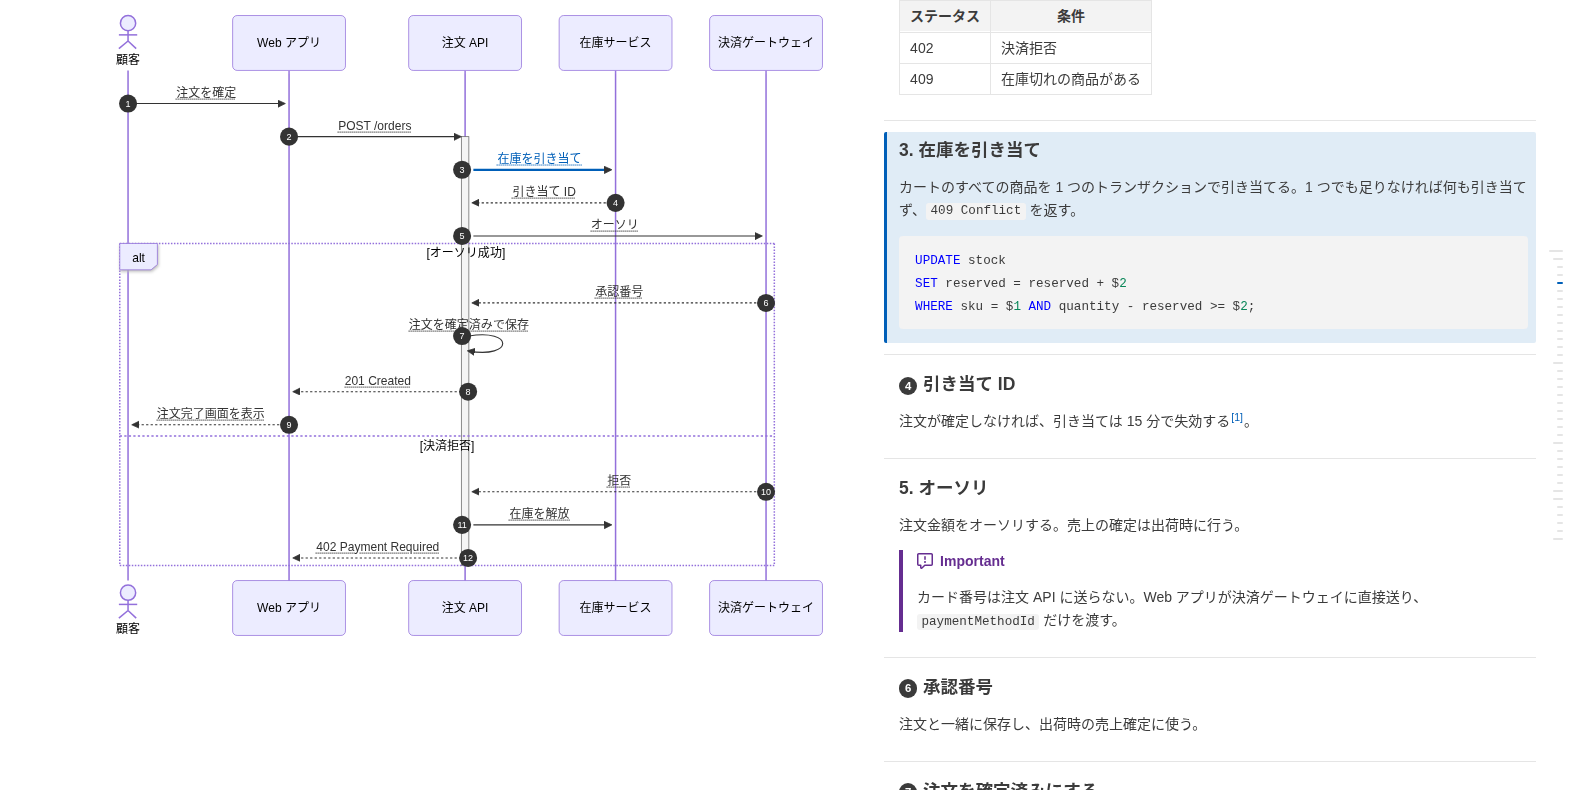
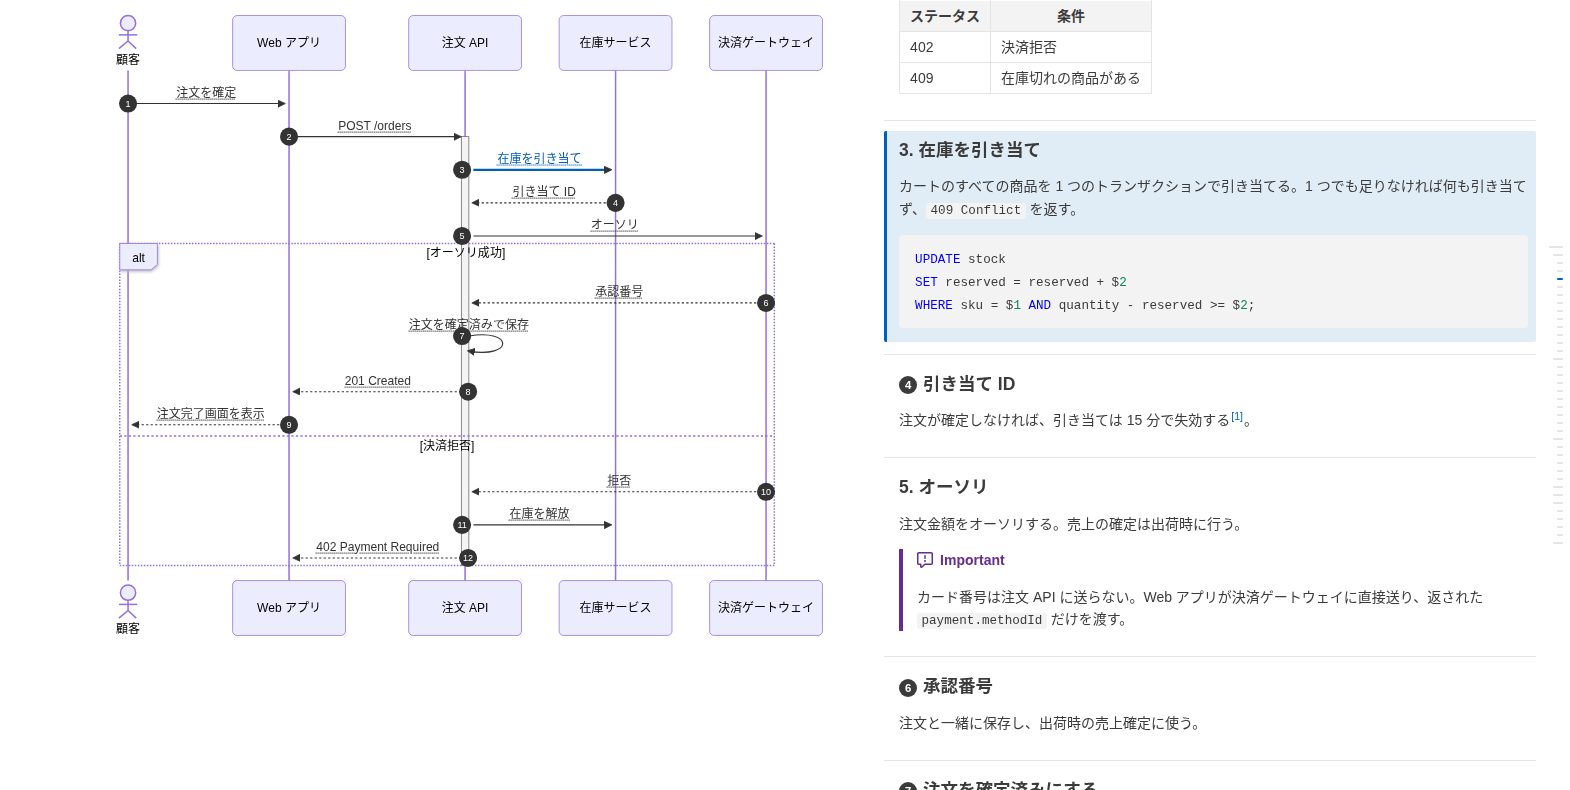
スクリーンショット用のサンプルの POST /orders の JSON を項目の表に合わせる (MDDV-16)

diff --git a/examples/screenshot.md b/examples/screenshot.md
@@ -66,8 +66,9 @@ Idempotency-Key: 6f1c2a9e-0b7d-4f3a-9c55-1d2e8a7b4c10
 ```json
 {
   "cartId": "c_8241",
-  "shippingAddressId": "a_17",
-  "paymentMethodId": "pm_card_visa"
+  "shipping": { "addressId": "a_17", "timeSlot": "am" },
+  "payment": { "methodId": "pm_card_visa" },
+  "items": [{ "sku": "SKU-1042", "quantity": 2 }]
 }
 ```
 
@@ -96,7 +97,7 @@ The reservation expires after 15 minutes[^expiry] if the order is not confirmed.
 Authorizes the order total. The amount is captured later, when the order is shipped.
 
 > [!IMPORTANT]
-> Never send the card number to the Order API. The Web App sends it to the Payment Gateway directly and passes only `paymentMethodId`.
+> Never send the card number to the Order API. The Web App sends it to the Payment Gateway directly and passes only the `payment.methodId` it gets back.
 
 ### Authorization code
 

diff --git a/examples/screenshot.ja.md b/examples/screenshot.ja.md
@@ -66,8 +66,9 @@ Idempotency-Key: 6f1c2a9e-0b7d-4f3a-9c55-1d2e8a7b4c10
 ```json
 {
   "cartId": "c_8241",
-  "shippingAddressId": "a_17",
-  "paymentMethodId": "pm_card_visa"
+  "shipping": { "addressId": "a_17", "timeSlot": "am" },
+  "payment": { "methodId": "pm_card_visa" },
+  "items": [{ "sku": "SKU-1042", "quantity": 2 }]
 }
 ```
 
@@ -96,7 +97,7 @@ WHERE sku = $1 AND quantity - reserved >= $2;
 注文金額をオーソリする。売上の確定は出荷時に行う。
 
 > [!IMPORTANT]
-> カード番号は注文 API に送らない。Web アプリが決済ゲートウェイに直接送り、`paymentMethodId` だけを渡す。
+> カード番号は注文 API に送らない。Web アプリが決済ゲートウェイに直接送り、返された `payment.methodId` だけを渡す。
 
 ### 承認番号
 
